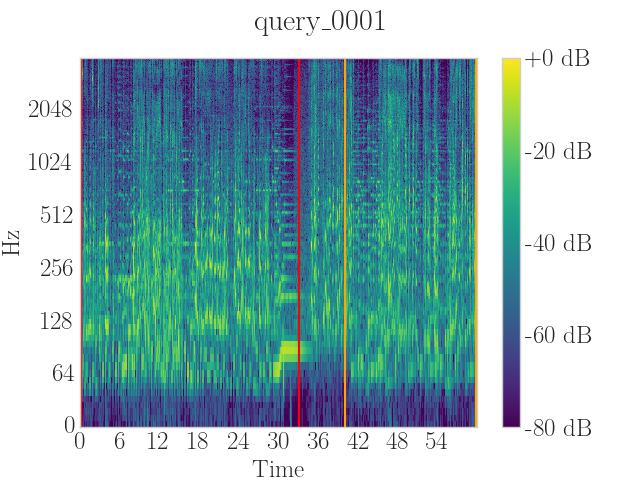
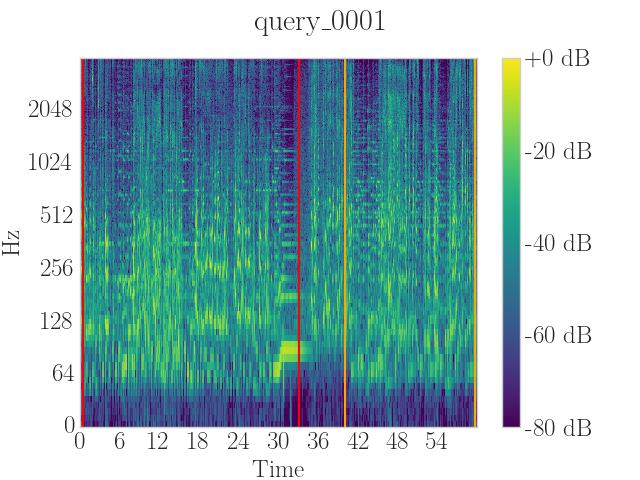
Plots of all ssafp

Changed region(s): [[0.7188, 0.125, 0.75, 0.9062], [0.125, 0.125, 0.1562, 0.9062]]

diff --git a/index.html b/index.html
@@ -187,19 +187,19 @@
         </div>
       </div>
 
-      <div class="columns is-centered has-text-centered"> <!--has-text-weight-bold-->
+      <div class="columns is-mobile is-multiline is-centered has-text-centered"> <!--has-text-weight-bold-->
         <div class="column">
           <figure class="image is-5by4 mb-4">
-            <img src="./static/images/spectrograms/baf-query_0001.jpg">
+            <img src="./static/images/spectrograms/demucs-query_0001.jpg">
           </figure>
           <audio controls>
             <source src="./static/audios/ssafp/demucs-query_0001.wav" type="audio/mpeg">
-            </audio>
-            <p>Demucs</p>
+          </audio>
+          <p>Demucs</p>
           </div>
           <div class="column">
             <figure class="image is-5by4 mb-4">
-              <img src="./static/images/spectrograms/baf-query_0001.jpg">
+              <img src="./static/images/spectrograms/denoiser-query_0001.jpg">
             </figure>
             <audio controls>
               <source src="./static/audios/ssafp/denoiser-query_0001.wav" type="audio/mpeg">
@@ -208,22 +208,132 @@
         </div>
         <div class="column">
           <figure class="image is-5by4 mb-4">
-            <img src="./static/images/spectrograms/baf-query_0001.jpg">
+            <img src="./static/images/spectrograms/dwave-query_0001.jpg">
           </figure>
           <audio controls>
             <source src="./static/audios/ssafp/dwave-query_0001.wav" type="audio/mpeg">
             </audio>
             <p>Dwave</p>
-          </div>
-          <div class="column">
-            <figure class="image is-5by4 mb-4">
-              <img src="./static/images/spectrograms/baf-query_0001.jpg">
+        </div>
+        <div class="column">
+          <figure class="image is-5by4 mb-4">
+            <img src="./static/images/spectrograms/moises-query_0001.jpg">
             </figure>
             <audio controls>
               <source src="./static/audios/ssafp/moises-query_0001.wav" type="audio/mpeg">
             </audio>
             <p>Moises</p>
-          </div>
+            </div>
+        <div class="column">
+          <figure class="image is-5by4 mb-4">
+            <img src="./static/images/spectrograms/mrx-query_0001.jpg">
+          </figure>
+          <audio controls>
+            <source src="./static/audios/ssafp/mrx-query_0001.wav" type="audio/mpeg">
+          </audio>
+          <p>MRX</p>
+        </div>
+        <div class="column">
+          <figure class="image is-5by4 mb-4">
+            <img src="./static/images/spectrograms/spleeter-query_0001.jpg">
+          </figure>
+          <audio controls>
+            <source src="./static/audios/ssafp/spleeter-query_0001.wav" type="audio/mpeg">
+          </audio>
+          <p>Spleeter</p>
+        </div>
+        <div class="column">
+          <figure class="image is-5by4 mb-4">
+            <img src="./static/images/spectrograms/umx-query_0001.jpg">
+          </figure>
+          <audio controls>
+            <source src="./static/audios/ssafp/umx-query_0001.wav" type="audio/mpeg">
+          </audio>
+          <p>UMX</p>
+        </div>
+        <div class="column">
+          <figure class="image is-5by4 mb-4">
+            <img src="./static/images/spectrograms/uss-query_0001.jpg">
+          </figure>
+          <audio controls>
+            <source src="./static/audios/ssafp/uss-query_0001.wav" type="audio/mpeg">
+          </audio>
+          <p>USS</p>
+        </div>
+        
+        <div class="column">
+          <figure class="image is-5by4 mb-4">
+            <img src="./static/images/spectrograms/waveunet-query_0001.jpg">
+          </figure>
+          <audio controls>
+            <source src="./static/audios/ssafp/waveunet-query_0001.wav" type="audio/mpeg">
+          </audio>
+          <p>WaveUNet</p>
+        </div>
+        <div class="column">
+          <figure class="image is-5by4 mb-4">
+            <img src="./static/images/spectrograms/xumx-query_0001.jpg">
+          </figure>
+          <audio controls>
+            <source src="./static/audios/ssafp/xumx-query_0001.wav" type="audio/mpeg">
+          </audio>
+          <p>XUMX</p>
+        </div>
+        <div class="column">
+          <figure class="image is-5by4 mb-4">
+            <img src="./static/images/spectrograms/librimsd_unet-query_0001.jpg">
+          </figure>
+          <audio controls>
+            <source src="./static/audios/ssafp/librimsd_unet-query_0001.wav" type="audio/mpeg">
+          </audio>
+          <p>UNet<sup>#</sup></p>
+        </div>
+        <div class="column">
+          <figure class="image is-5by4 mb-4">
+            <img src="./static/images/spectrograms/librimsd_unet_large-query_0001.jpg">
+          </figure>
+          <audio controls>
+            <source src="./static/audios/ssafp/librimsd_unet_large-query_0001.wav" type="audio/mpeg">
+          </audio>
+          <p>UNet_large<sup>#</sup></p>
+        </div>
+        
+        <div class="column">
+          <figure class="image is-5by4 mb-4">
+            <img src="./static/images/spectrograms/librimsdfsd_unet-query_0001.jpg">
+          </figure>
+          <audio controls>
+            <source src="./static/audios/ssafp/librimsdfsd_unet-query_0001.wav" type="audio/mpeg">
+          </audio>
+          <p>UNet<sup>b</sup></p>
+        </div>
+        <div class="column">
+          <figure class="image is-5by4 mb-4">
+            <img src="./static/images/spectrograms/librimsd_unet_att-query_0001.jpg">
+          </figure>
+          <audio controls>
+            <source src="./static/audios/ssafp/librimsd_unet_att-query_0001.wav" type="audio/mpeg">
+          </audio>
+          <p>UNetAtt<sup>#</sup></p>
+        </div>
+        <div class="column">
+          <figure class="image is-5by4 mb-4">
+            <img src="./static/images/spectrograms/librimsdfsd_unet_att-query_0001.jpg">
+          </figure>
+          <audio controls>
+            <source src="./static/audios/ssafp/librimsdfsd_unet_att-query_0001.wav" type="audio/mpeg">
+          </audio>
+          <p>UNetAtt<sup>b</sup></p>
+        </div>
+        <div class="column is-4">
+          <figure class="image is-5by4 mb-4">
+            <img src="./static/images/spectrograms/librimsd_waveunet-query_0001.jpg">
+          </figure>
+          <audio controls>
+            <source src="./static/audios/ssafp/librimsd_waveunet-query_0001.wav" type="audio/mpeg">
+          </audio>
+          <p>WaveUNet<sup>#</sup></p>
+        </div>
     </div>
   </section>
 
